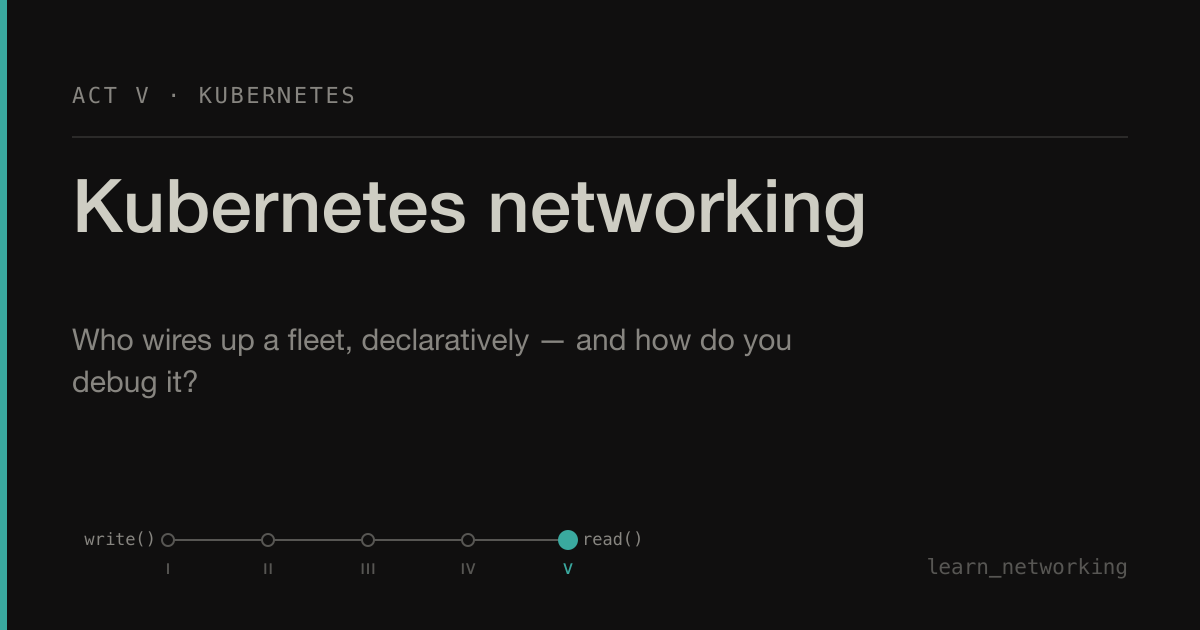
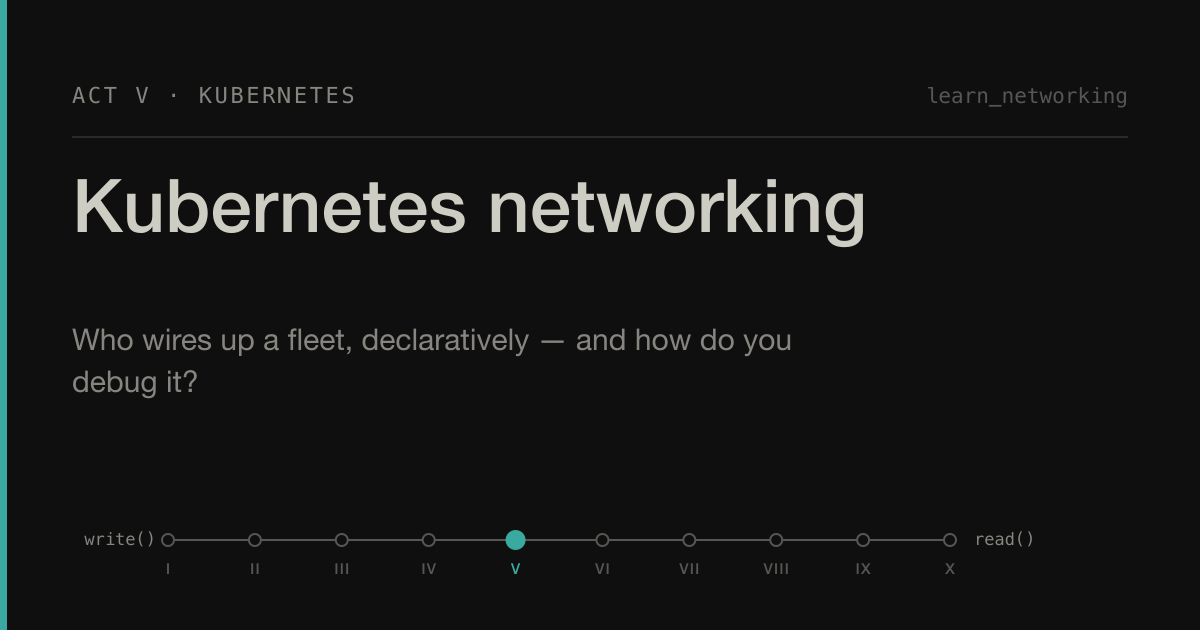
Give Acts VI–X the furniture every earlier act had
The sidebar group was the visible half of the gap. The other half was
quieter and worse: `sections.ts` stopped at Act V, so those pages had no
eyebrow — and `tagLessonNav` had *already* dropped each source's footer
nav line, because it decides from the routes (any section with an
`index.md`) rather than from `sections.ts`. Between the two, sixty-odd
pages had no way up to their act overview at all except the collapsed
sidebar, and on a phone not even that.

Six new motifs, drawn to each act's own claim rather than picked from an
icon set, which is the rule the first eight were drawn to. Three of them
took a second attempt for the same reason, now recorded in the file: the
frame stroke is 1.4 units on a 48×20 grid, so anything with less than
~2.5 units of clearance fuses into a blob. Act VI's three nested orbits
became one circuit with three dots on it; Act VIII's dashed eavesdropper
tap resolved to a single dash and read as *connected*; exam prep's hollow
marks were discs with a pinhole until the ring outgrew the stroke.

Act X's dot deliberately does not arrive — three gates, solid wire to the
second one and dashed after it, because every control in that act is a
place where something is refused and the only difference is when.

Fifteen OG cards, not nine, and the journey strip on them runs to ten
stops. The wordmark moves from the bottom-right corner to the eyebrow
line: at ten stops the numerals reach x=950 and the mark's right-anchored
[…]

diff --git a/site/src/lib/sections.ts b/site/src/lib/sections.ts
@@ -17,8 +17,14 @@ export type MotifName =
   | 'act-3'
   | 'act-4'
   | 'act-5'
+  | 'act-6'
+  | 'act-7'
+  | 'act-8'
+  | 'act-9'
+  | 'act-10'
   | 'capstone'
-  | 'reference';
+  | 'reference'
+  | 'exam-prep';
 
 export interface Section {
   /** Shown as an eyebrow above the page title. */
@@ -40,8 +46,17 @@ const SECTIONS: Record<MotifName, Section> = {
   'act-3': { label: 'Act III · The internet', motif: 'act-3', href: '/act-3/' },
   'act-4': { label: 'Act IV · One pretends to be many', motif: 'act-4', href: '/act-4/' },
   'act-5': { label: 'Act V · Kubernetes', motif: 'act-5', href: '/act-5/' },
+  'act-6': { label: 'Act VI · The cluster that runs itself', motif: 'act-6', href: '/act-6/' },
+  'act-7': { label: 'Act VII · Describing the work', motif: 'act-7', href: '/act-7/' },
+  'act-8': { label: 'Act VIII · Trust on an untrusted wire', motif: 'act-8', href: '/act-8/' },
+  'act-9': { label: 'Act IX · Identity and access', motif: 'act-9', href: '/act-9/' },
+  'act-10': { label: 'Act X · Securing the cluster', motif: 'act-10', href: '/act-10/' },
   capstone: { label: 'Capstone', motif: 'capstone' },
   reference: { label: 'Reference', motif: 'reference' },
+  // Not an act, and the label says so. exam-prep is rehearsal for a timed exam, which is the one
+  // thing the course refuses to do inside a lesson — so it gets an eyebrow that never reads as
+  // "Act XI".
+  'exam-prep': { label: 'Exam prep · CKA and CKS', motif: 'exam-prep', href: '/exam-prep/' },
 };
 
 /**

diff --git a/site/README.md b/site/README.md
@@ -35,8 +35,25 @@ relative link can't be mapped to a page, the script lists it at the end of the r
 a dead link; `node scripts/sync-content.mjs --strict` turns that into a non-zero exit for CI.
 
 Adding a lesson needs no changes here — drop the file in the act directory with a numeric prefix and
-re-run. Adding a whole **act** means adding one entry to `ACTS` in the sync script and one sidebar group
-in `astro.config.mjs`.
+re-run. It will not get a stack rail unless you also put it in `LAYER_BY_PATH` (`src/lib/layers.ts`),
+which is a judgement call and deliberately not automatic.
+
+Adding a whole **act** touches five places, and missing any of the last three is silent — the pages
+build and read fine, they just lose their furniture:
+
+| File | What it gives the act |
+|---|---|
+| `ACTS` in `scripts/sync-content.mjs` | the pages exist at all |
+| a sidebar group in `astro.config.mjs` | somewhere to find them |
+| `SECTIONS` in `src/lib/sections.ts` | the eyebrow above each title, and the "up" link to the act overview — without which `sync-content.mjs` also keeps the source's footer nav block, because it only drops it for sections that have an overview page here |
+| a motif in `src/components/Motif.astro` | the drawn mark beside each title. This is the one entry you cannot forget *quietly*: `MOTIFS` is a `Record<MotifName, …>`, so once the act is in `SECTIONS` the build reads `MOTIFS[name].seconds` off `undefined` and dies on that act's first page |
+| a card in `scripts/gen-og.mjs` **and** its id in `SECTION_CARDS` (`src/components/Head.astro`) | the act's own social preview instead of the generic one |
+
+Acts VI–X shipped with only the first two for a while, and the failure was worse than a missing
+ornament: those sixty-odd pages had **no way up at all**. `tagLessonNav` had already dropped each
+source's footer nav line, because it decides from the routes (any section with an `index.md`) and not
+from `sections.ts` — so the act overview was reachable only from the collapsed sidebar, and on a phone
+not at all. Nothing about that is a build error. Hence the table.
 
 ## Hand-written pages (important)
 
